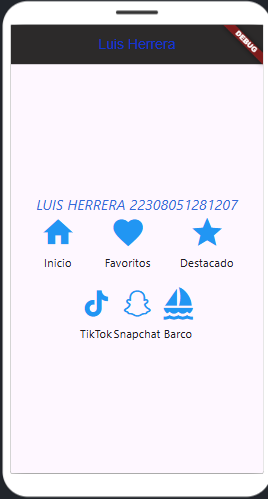
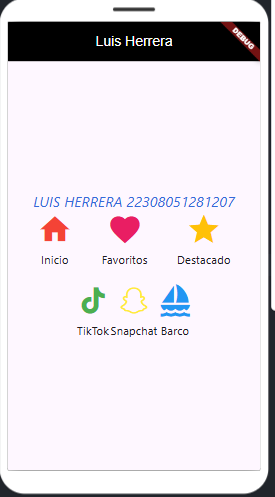
vf

Changed region(s): [[0.0, 0.0, 1.0, 1.0], [0.1194, 0.3924, 0.8955, 0.5433], [0.2985, 0.5734, 0.7164, 0.6942]]

diff --git a/lib/main.dart b/lib/main.dart
@@ -11,9 +11,9 @@ class MisIconos extends StatelessWidget {
       home: Scaffold(
         appBar: AppBar(
           title: Text("Luis Herrera"),
-          titleTextStyle: TextStyle(color: Color(0xff1335cf), fontSize: 20),
+          titleTextStyle: TextStyle(color: Color(0xffffffff), fontSize: 20),
           centerTitle: true,
-          backgroundColor: Color(0xff2c2a2a),
+          backgroundColor: Color(0xff000000),
         ),
         body: Center(
           child: Column(
@@ -28,9 +28,16 @@ class MisIconos extends StatelessWidget {
               Row(
                 mainAxisAlignment: MainAxisAlignment.spaceEvenly,
                 children: <Widget>[
-                  IconWithSubtitle(icon: Icons.home, subtitle: 'Inicio'),
-                  IconWithSubtitle(icon: Icons.favorite, subtitle: 'Favoritos'),
-                  IconWithSubtitle(icon: Icons.star, subtitle: 'Destacado'),
+                  IconWithSubtitle(
+                      icon: Icons.home, subtitle: 'Inicio', color: Colors.red),
+                  IconWithSubtitle(
+                      icon: Icons.favorite,
+                      subtitle: 'Favoritos',
+                      color: Colors.pink),
+                  IconWithSubtitle(
+                      icon: Icons.star,
+                      subtitle: 'Destacado',
+                      color: Colors.amber),
                 ],
               ),
               SizedBox(height: 20), // Espacio entre las filas
@@ -38,9 +45,18 @@ class MisIconos extends StatelessWidget {
               Row(
                 mainAxisAlignment: MainAxisAlignment.center,
                 children: <Widget>[
-                  IconWithSubtitle(icon: Icons.tiktok, subtitle: 'TikTok'),
-                  IconWithSubtitle(icon: Icons.snapchat, subtitle: 'Snapchat'),
-                  IconWithSubtitle(icon: Icons.sailing, subtitle: 'Barco'),
+                  IconWithSubtitle(
+                      icon: Icons.tiktok,
+                      subtitle: 'TikTok',
+                      color: Colors.green),
+                  IconWithSubtitle(
+                      icon: Icons.snapchat,
+                      subtitle: 'Snapchat',
+                      color: Colors.yellow),
+                  IconWithSubtitle(
+                      icon: Icons.sailing,
+                      subtitle: 'Barco',
+                      color: Colors.blue),
                 ],
               ),
             ],
@@ -55,14 +71,16 @@ class MisIconos extends StatelessWidget {
 class IconWithSubtitle extends StatelessWidget {
   final IconData icon;
   final String subtitle;
+  final Color color;
 
-  IconWithSubtitle({required this.icon, required this.subtitle});
+  IconWithSubtitle(
+      {required this.icon, required this.subtitle, required this.color});
 
   @override
   Widget build(BuildContext context) {
     return Column(
       children: <Widget>[
-        Icon(icon, size: 50.0, color: Colors.blue),
+        Icon(icon, size: 50.0, color: color),
         SizedBox(height: 8), // Espacio entre el ícono y el subtítulo
         Text(subtitle, style: TextStyle(fontSize: 16)),
       ],
